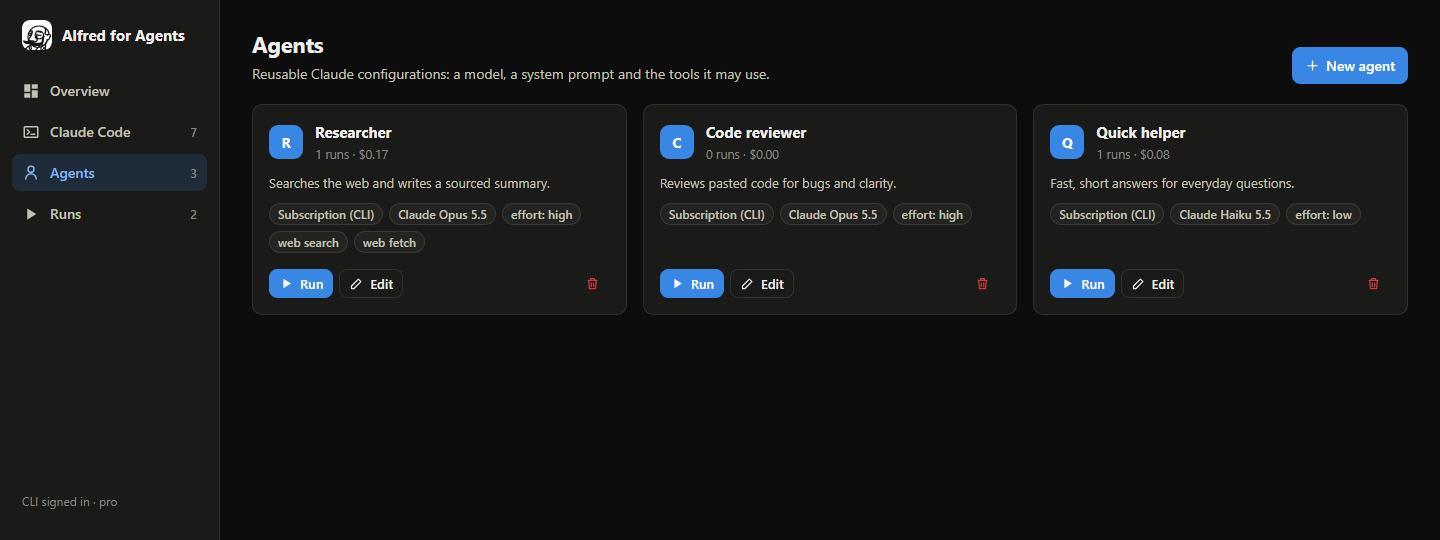
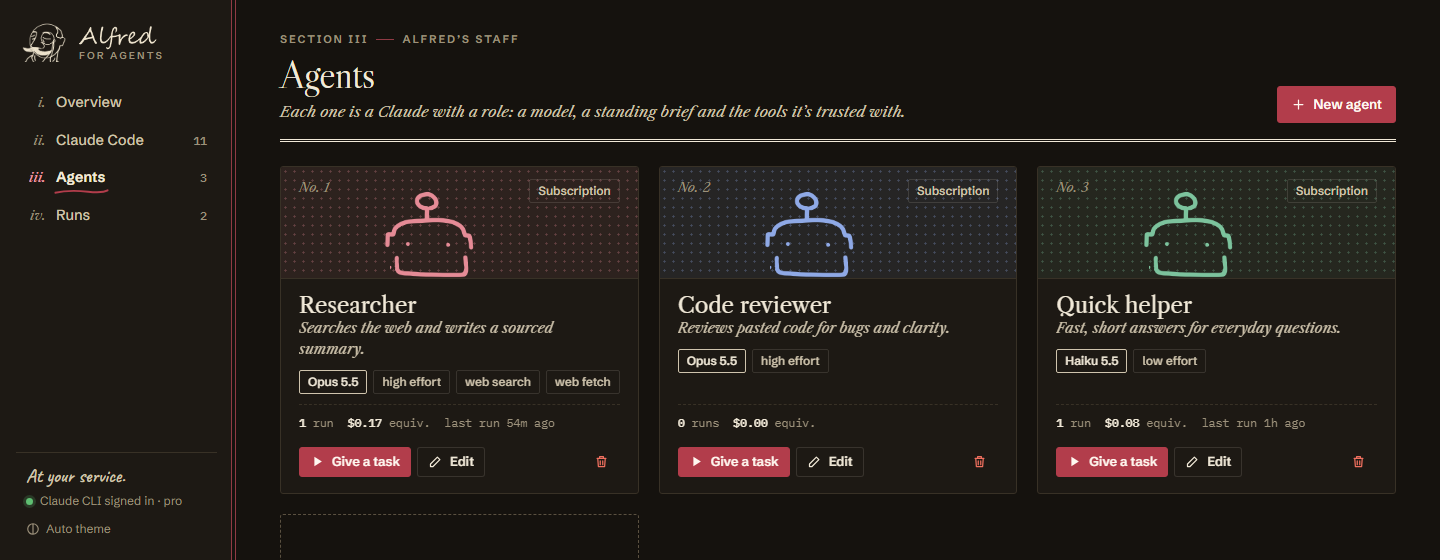
Release 0.3.0: README screenshots of the redesign
Refreshes the README screenshots with the service-ledger design (Overview
in Day and Evening, Agents, Runs), describes the new design, updates button
names and the project structure, and bumps the version to 0.3.0.

diff --git a/README.md b/README.md
@@ -53,13 +53,23 @@ Cost, tokens, prompts and tool calls per day for the last 7, 30 or 90 days. See 
 ### 🪟 A real desktop app
 Alfred gets its own window and a tray icon. When an agent finishes in the background, you get a Windows notification. Alfred can also start with Windows.
 
+### 🎩 A butler, not a dashboard
+The design is a butler's service ledger, drawn from the hand-made Alfred illustration: Caslon type, ruled pages, a robot portrait for each agent on your staff, and Day and Evening themes.
+
 </td>
 </tr>
 </table>
 
-![A Researcher agent run: web searches and page reads stream in, followed by a sourced answer](docs/screenshots/run.png)
+![A Researcher agent run: web searches and page reads stream in on a thread, followed by a sourced answer](docs/screenshots/run.png)
 
-![The Agents page with the three starter agents](docs/screenshots/agents.png)
+![The Agents page: three starter agents, each with its own robot portrait](docs/screenshots/agents.png)
+
+<table>
+<tr>
+<td width="50%"><img src="docs/screenshots/overview-day.png" alt="The Overview in the Day theme" /><p align="center"><sub>Day</sub></p></td>
+<td width="50%"><img src="docs/screenshots/overview.png" alt="The Overview in the Evening theme" /><p align="center"><sub>Evening</sub></p></td>
+</tr>
+</table>
 
 ## Getting started
 
@@ -113,7 +123,7 @@ On Windows you can also double-click **`Start Dashboard.bat`**, which installs d
 
 ### Run your first task
 
-1. Go to **Agents** and click **Run** on *Quick helper*.
+1. Go to **Agents** and click **Give a task** on *Quick helper*.
 2. Type a task, for example *"Explain what a monad is in two sentences"*, and press **Start run**.
 3. Alfred opens the run and streams the answer. Send a follow-up from the box at the bottom.
 
@@ -200,8 +210,11 @@ alfred-for-agents/
 │   └── pricing.js         Per-model prices for cost estimates
 ├── src/                   React UI (Vite)
 ├── assets/alfred.png      The Alfred illustration
+├── public/art/            Line-art pieces cut from the illustration
 ├── build/                 App and tray icons (made by `npm run icon`)
-└── scripts/make-icon.mjs  Builds the icons from Alfred's head
+└── scripts/
+    ├── make-icon.mjs      Builds the icons from Alfred's head
+    └── make-art.mjs       Cuts the illustration into the UI's art pieces
 ```
 
 ## FAQ
@@ -238,7 +251,7 @@ No. It's an estimate at API list prices, worked out from the token counts in you
 
 ## Contributing
 
-Issues and pull requests are welcome. To work on Alfred, run `npm run dev` for the browser version with live reload, or `npm run app` for the desktop app. If you change the drawing, `npm run icon` rebuilds every icon from `assets/alfred.png`.
+Issues and pull requests are welcome. To work on Alfred, run `npm run dev` for the browser version with live reload, or `npm run app` for the desktop app. If you change the drawing, `npm run icon` rebuilds every icon and `node scripts/make-art.mjs` re-cuts the UI art from `assets/alfred.png`.
 
 ## License
 
